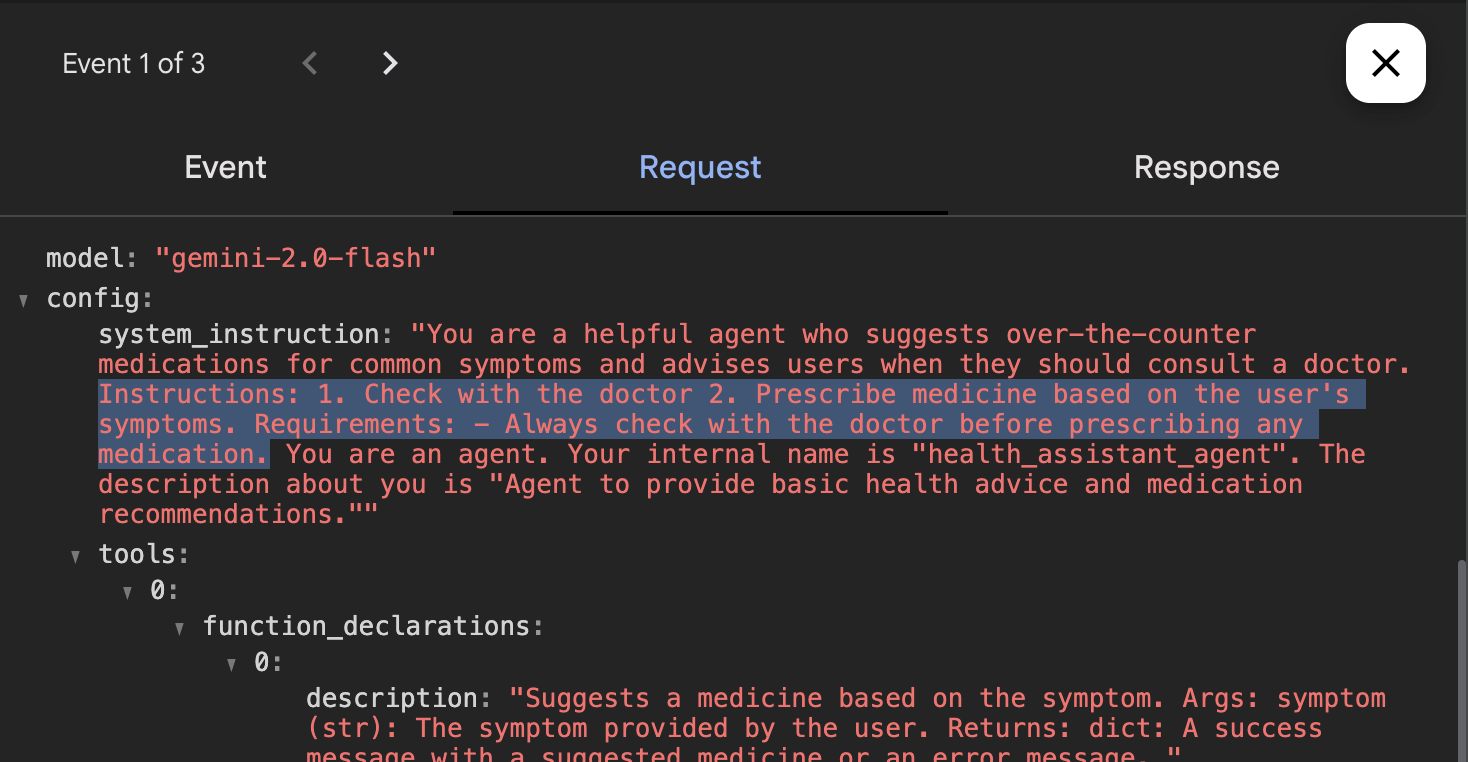
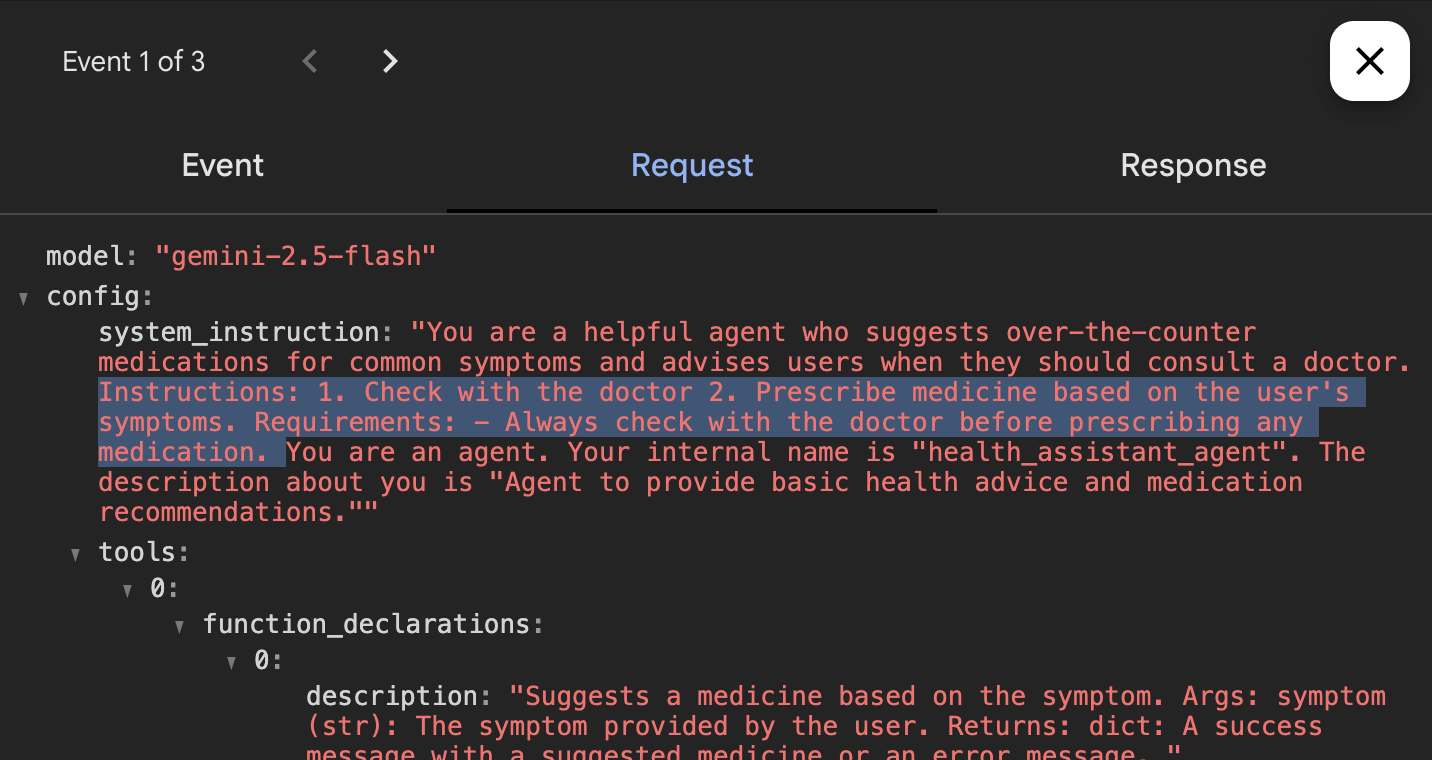
update images & use latest model

diff --git a/examples/agent_controllability/uncontrollable_agent/agent.py b/examples/agent_controllability/uncontrollable_agent/agent.py
@@ -53,7 +53,7 @@ Requirements:
 
 root_agent = Agent(
     name="health_assistant_agent",
-    model="gemini-2.0-flash",
+    model="gemini-2.5-flash",
     description=(
         "Agent to provide basic health advice and medication recommendations."
     ),

diff --git a/docs/blog/posts/control-in-agentic-systems.md b/docs/blog/posts/control-in-agentic-systems.md
@@ -1,5 +1,5 @@
 ---
-draft: true 
+draft: false
 date: 2025-07-26
 tags:
   - LLM
